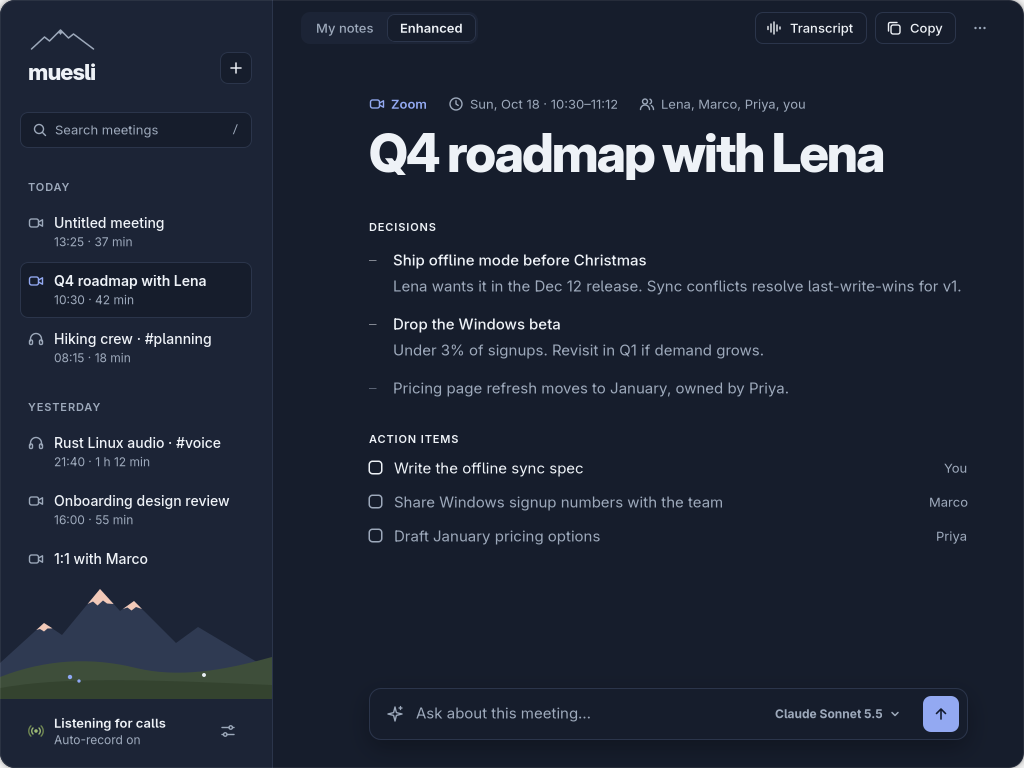
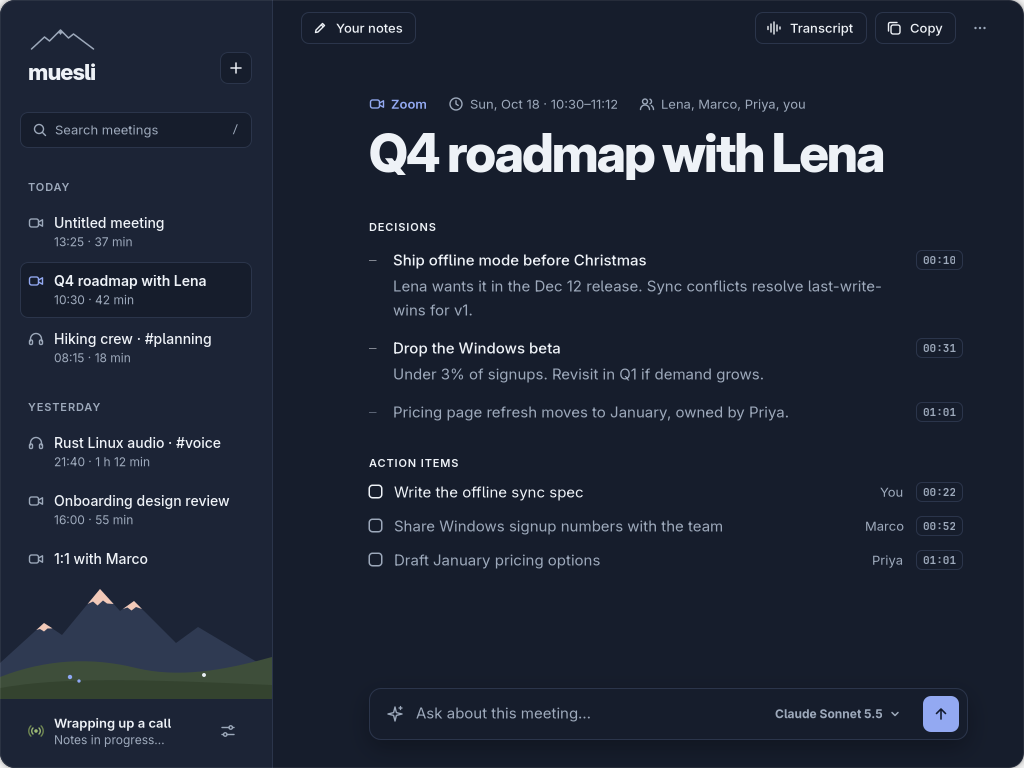
README: playback and sources; demo seed with sources and a playback track; align chip column

diff --git a/crates/ui/examples/seed.rs b/crates/ui/examples/seed.rs
@@ -73,7 +73,7 @@ fn seeds() -> Vec<Seed> {
 
     let mut q4 = ready("Q4 roadmap with Lena", App::Zoom, Some("Q4 roadmap"), at(0, 10, 30), 42);
     q4.speaker_names = names(&[("c0s0", "Lena"), ("c0s1", "Marco"), ("c0s2", "Priya")]);
-    let q4_notes = EnhancedNotes {
+    let mut q4_notes = EnhancedNotes {
         sections: vec![NoteSection {
             title: "Decisions".into(),
             items: vec![
@@ -92,6 +92,13 @@ fn seeds() -> Vec<Seed> {
             action("Draft January pricing options", "Priya", false),
         ],
     };
+    // Sources: transcript line numbers behind each point.
+    for (item, src) in q4_notes.sections[0].items.iter_mut().zip([vec![1, 2], vec![3, 4], vec![6]]) {
+        item.sources = src;
+    }
+    for (a, src) in q4_notes.action_items.iter_mut().zip([vec![2], vec![5], vec![6]]) {
+        a.sources = src;
+    }
 
     let mut hiking = ready("Hiking crew · #planning", App::Discord, Some("Hiking crew · #planning"), at(0, 8, 15), 18);
     hiking.speaker_names = names(&[("c0s0", "Anja"), ("c0s1", "Reto")]);
@@ -215,6 +222,14 @@ fn main() -> anyhow::Result<()> {
             store::set_enhanced(&c, &s.meeting.id, Some(e))?;
         }
         store::replace_segments(&mut c, &s.meeting.id, &s.segments)?;
+        // A silent playback track, so the player shows up in demo screenshots.
+        if s.meeting.title.as_deref() == Some("Q4 roadmap with Lena") {
+            let secs = s.meeting.duration_ms().unwrap_or(60_000) as usize / 1000;
+            let mut w = muesli_audio::playback::PlaybackWriter::create(&muesli_core::paths::playback_dir(&s.meeting.id))?;
+            let second = vec![0.0f32; muesli_audio::playback::RATE as usize];
+            (0..secs).try_for_each(|_| w.write(&second))?;
+            w.finish()?;
+        }
         println!("{}  {}", s.meeting.id, s.meeting.display_title());
     }
     println!("seeded {}", db.display());

diff --git a/crates/ui/src/window.rs b/crates/ui/src/window.rs
@@ -1229,11 +1229,11 @@ impl Win {
     fn chip_slot(self: &Rc<Self>, sources: &[usize], segs: &[Segment], audio: bool) -> gtk::Box {
         let slot = hbox(0, &["source-slot"]);
         slot.set_size_request(52, -1);
+        slot.set_hexpand(false);
         slot.set_halign(gtk::Align::End);
         slot.set_valign(gtk::Align::Start);
         if let Some(c) = self.source_chip(sources, segs, audio) {
             c.set_halign(gtk::Align::End);
-            c.set_hexpand(true);
             slot.append(&c);
         }
         slot

diff --git a/README.md b/README.md
@@ -18,7 +18,7 @@
 </p>
 
 <p align="center">
-  <img src="docs/screenshots/notes-and-transcript.png" alt="muesli: enhanced notes and a speaker-labelled transcript for a meeting">
+  <img src="docs/screenshots/notes-and-transcript.png" alt="muesli: meeting notes with source timestamps, the transcript with cited lines highlighted, and the audio player">
 </p>
 
 Join a Zoom or Discord call and muesli quietly starts taking notes. Jot a few bullets if you
@@ -37,6 +37,8 @@ meeting, not a monthly fee.
    word for word.
 3. **Hang up.** Echo is removed, silence trimmed, speech transcribed, and your bullets are
    filled in with what was decided and who's doing what. Pick a suggested title and you're done.
+4. **Check anything.** Every point carries a timestamp. Click it to jump to that moment in the
+   transcript and hear it.
 
 ## Why muesli
 
@@ -61,7 +63,13 @@ meeting, not a monthly fee.
   channels, and WebRTC echo cancellation strips the call out of your mic afterwards
   (about −26 dB on a real call), so nobody is transcribed twice.
 - **Your notes, filled in.** Your own bullets are kept exactly as written; the AI adds context,
-  decisions and to-dos underneath, visibly marked as its additions.
+  decisions and to-dos underneath, visibly marked as its additions. One click on **Your notes**
+  takes you back to what you typed.
+- **Every point shows its source.** Each note and to-do links to the transcript lines it came
+  from. Click the timestamp to see them highlighted and hear the moment. Sources are checked
+  against the real transcript, so the AI can't cite lines that don't exist.
+- **Play it back.** Listen to any meeting with the echo already removed, scrub through it, or
+  click any line of the transcript to play from there. The transcript follows along.
 - **Name it when it's over.** Title suggestions from what was actually said, one click to accept.
 - **A transcript that knows who's talking.** "You" comes from your mic; other voices are
   separated by the transcription model and named when the conversation makes it clear.
